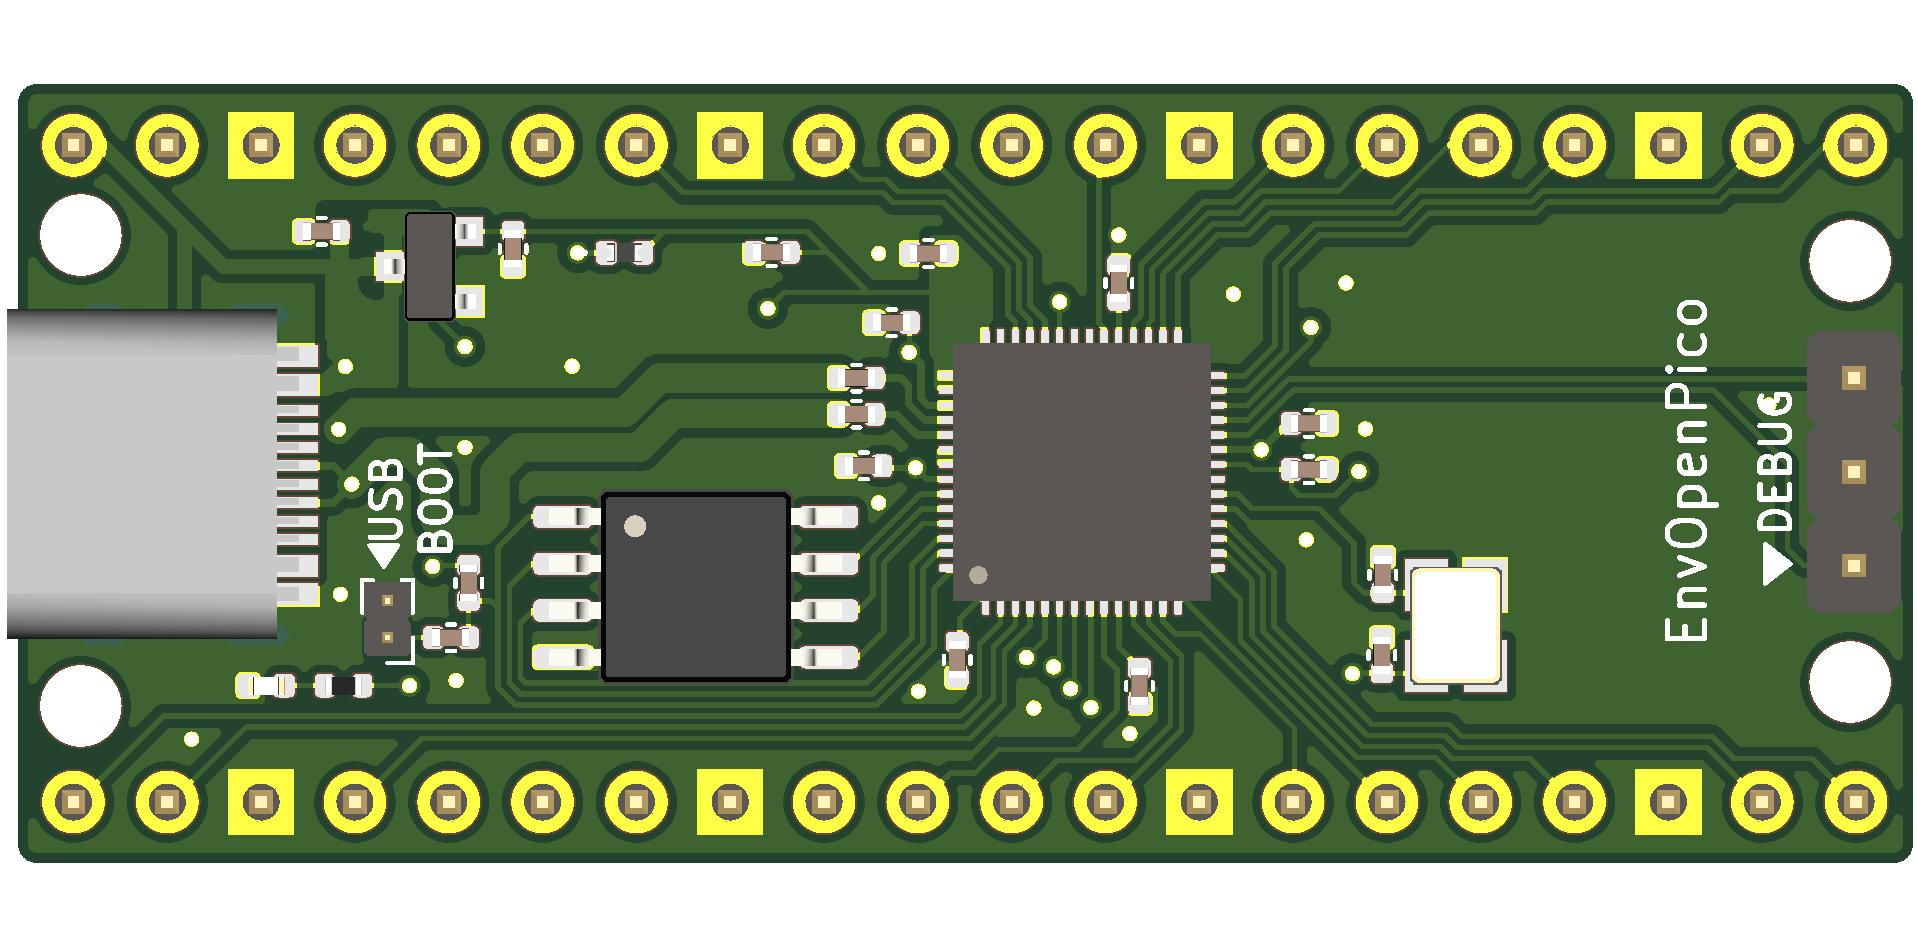
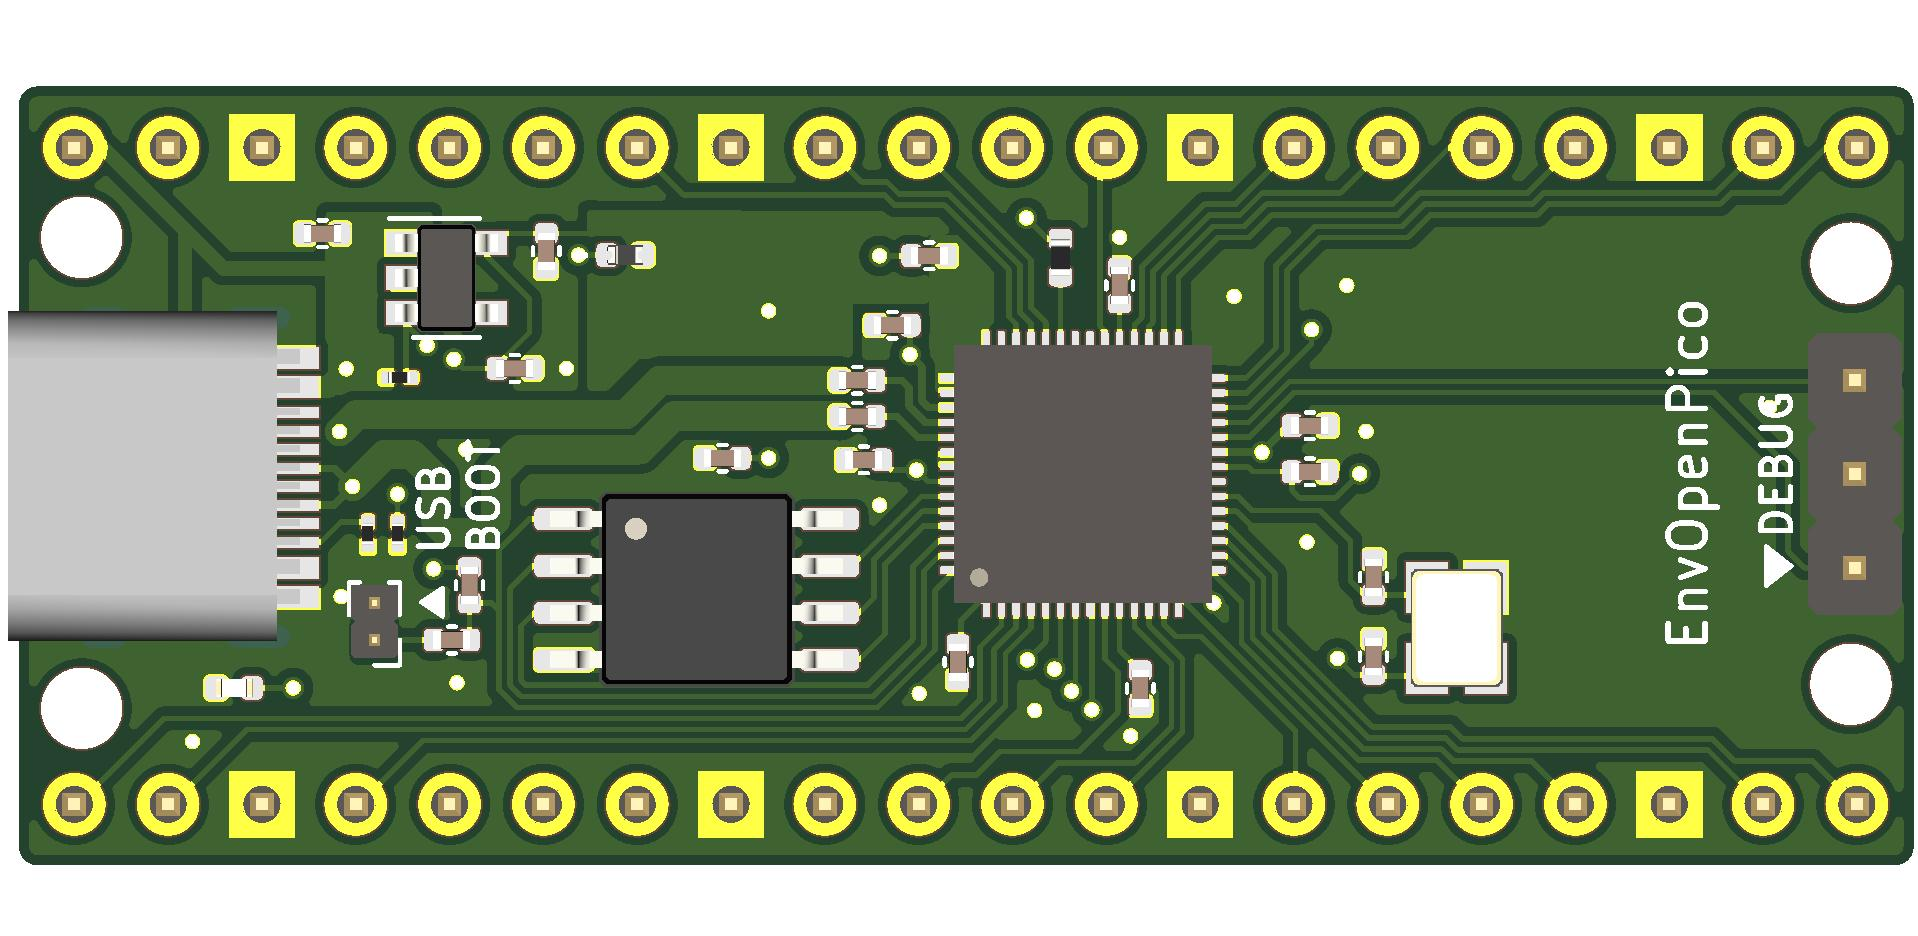
added some more info to README

diff --git a/README.md b/README.md
@@ -14,5 +14,7 @@ I'd like to use JLCPCB so if you do wish to contribute I would highly apreciate 
 
 ### To Do's 
 - [x] ~~move all SMD components to top side of PCB~~
-* Find smaller alternatives to ~~Crystal and~~ SPI Flash
-
+- [x] ~~Smaller Crystal chip~~
+- [ ] Want to replace Quad SPI flash with a smaller one
+- [ ] Need someone probably port circuitpython to this, QMK would be a huge bonus since I'd love to use this with my keyboards.
+- [ ] A small button instead of pin headers for USB Boot would be great.
